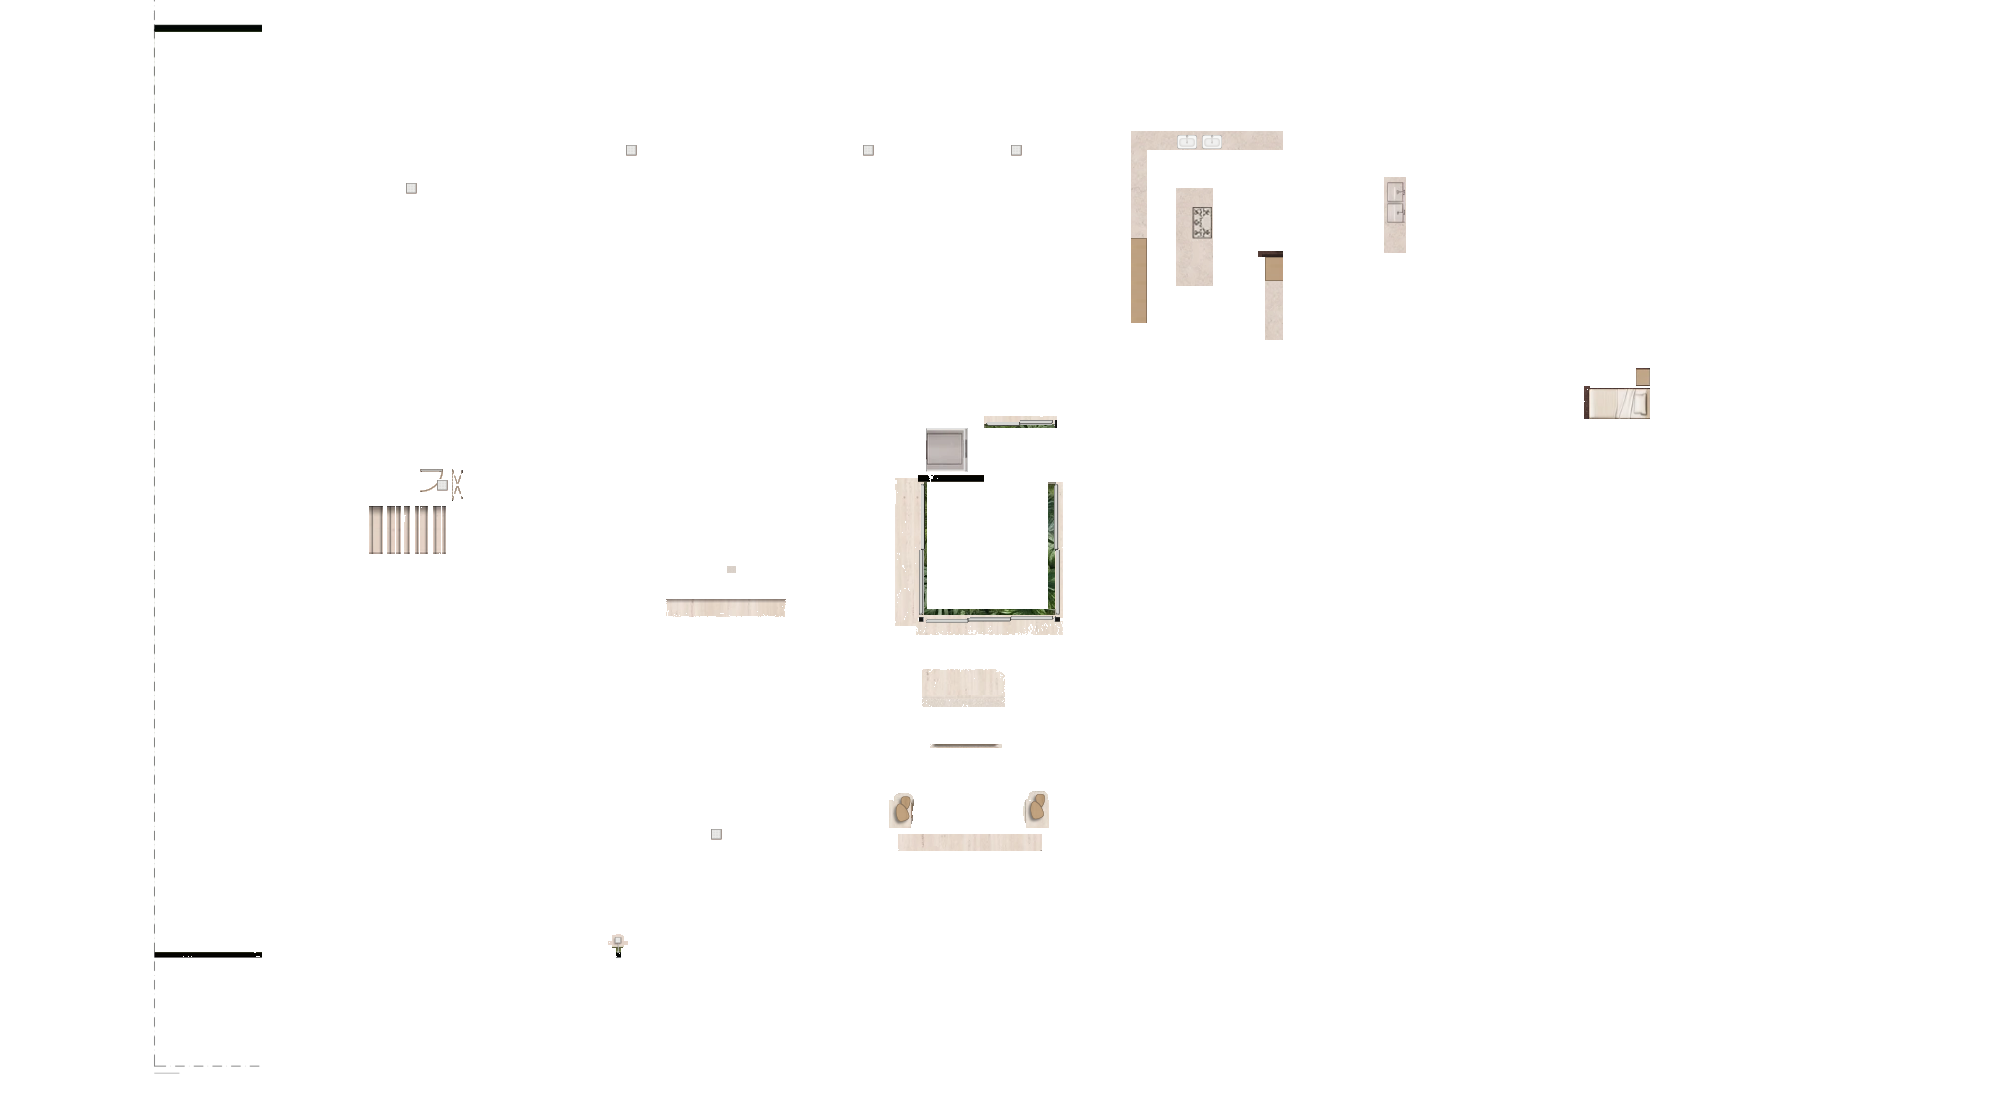
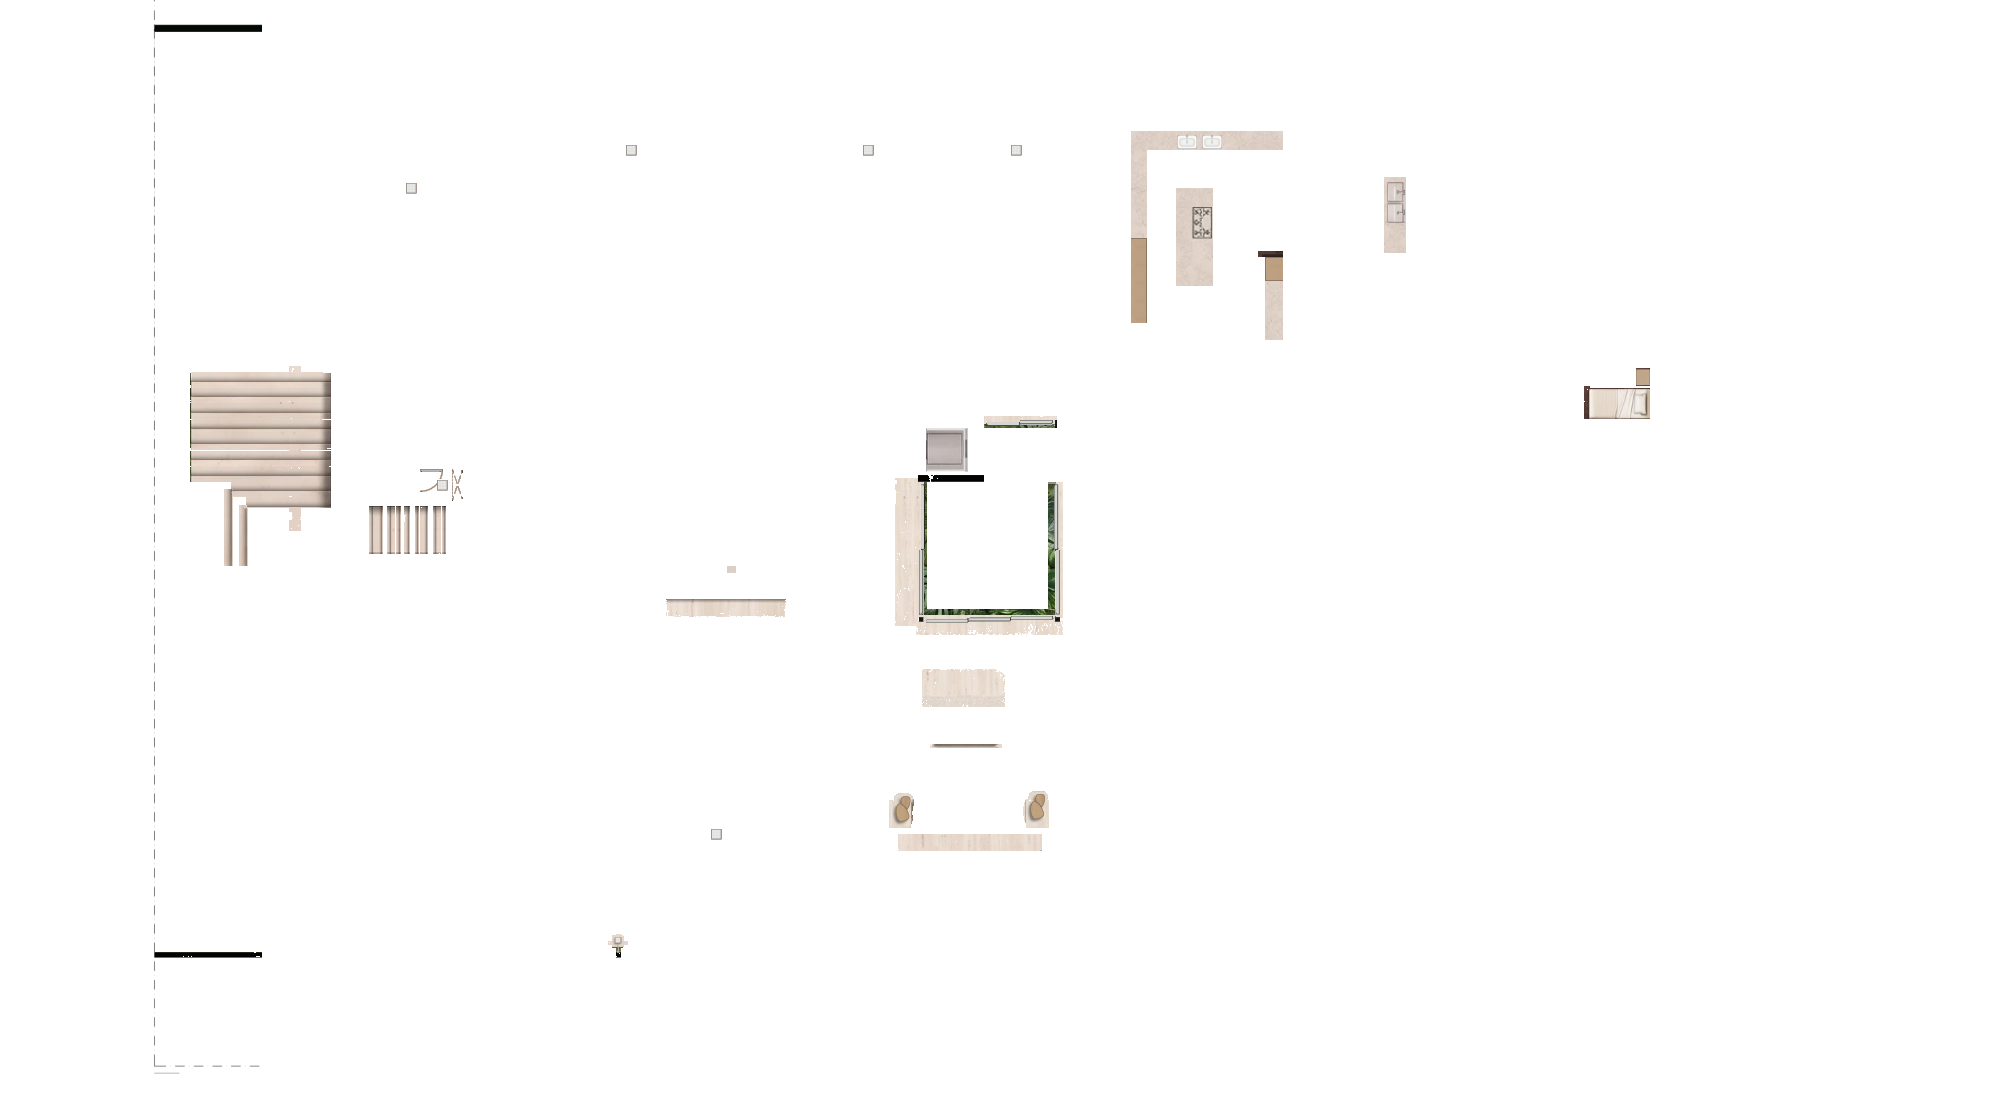
Casa C Térreo: degraus largos descendo para o pátio, sem a seta
A sombra das arestas passa para o lado de cima, com o perfil da mesma
escada no Subsolo aprovado, inclusive nas arestas em L.

Claude-Session: https://claude.ai/code/session_01Mm19WX3KoLN1nXMDF5Ay3F

Changed region(s): [[0.093, 0.3351, 0.186, 0.5179]]

diff --git a/projetos/POE642_CasaA/scripts/retoque_terreo_casac.py b/projetos/POE642_CasaA/scripts/retoque_terreo_casac.py
@@ -71,6 +71,11 @@ Os erros são corrigidos um a um, na ordem combinada com o usuário.
    vira as colunas limpas ao lado, que já têm a pedra, a borda, a grama e o muro). Entra o
    chuveiro do PDF (ARQ_LOUÇAS E METAIS): a ducha quadrada de ~19 cm, na placa aprovada da Casa A
    reduzida, o braço cromado até o muro e a canopla.
+15. Degraus largos (descem para o pátio, para cima na imagem): a seta da base sai (as colunas
+   viram as limpas ao lado) e a sombra de cada aresta, que o motor pôs do lado de baixo (lia como
+   subida), passa para o lado de cima, com o perfil da mesma escada no Subsolo da Casa C aprovado:
+   tira-se o perfil do motor (medido em cada aresta) e aplica-se o do Subsolo. As duas arestas em
+   L também: a sombra fica do lado de fora (à esquerda, o nível mais baixo).
 
 As coordenadas estão em px do render (2000 x 1116).
 
@@ -256,6 +261,19 @@ CHUVEIRO_EXT = {
     "canopla": (617.0, 951.4, 619.2, 952.5),
     "janela": (612, 934, 625, 955),
     "sombra": {"desloc": (-1.0, 1.0), "sigma": 0.8, "forca": 0.3},
+}
+# degraus largos: seta da base (com o deslocamento das colunas limpas), faixa das arestas retas,
+# colunas de medida (sem a seta e sem os L), arestas que viram em L e o fim dos L; perfis da mesma
+# escada no Subsolo da Casa C aprovado (fator sobre o piso liso, d = linha - aresta e coluna - aresta)
+DEGRAUS_LARGOS = {
+    "seta": ((289, 366, 301, 531), -12),
+    "x": (190, 331), "y": (366, 520),
+    "medida_x": (262, 318),
+    "L": [{"y": 490, "x": 231}, {"y": 506, "x": 246}],
+    "fim_L": 566,
+    "perfil": {"d": list(range(-10, 7)),
+               "f": [1.0, 1.0, 0.99, 0.99, 0.98, 0.96, 0.92, 0.87, 0.80, 0.71, 0.61, 0.99, 1.0, 1.0, 1.0, 1.0, 1.0]},
+    "perfil_L": {"d": list(range(-7, 2)), "f": [1.0, 0.99, 0.95, 0.91, 0.84, 0.76, 0.64, 0.61, 1.0]},
 }
 CROMO_ESCURO = (130, 134, 138)
 CROMO = (196, 199, 202)
@@ -761,6 +779,36 @@ def chuveiro_externo(out):
     return out
 
 
+def degraus_largos(out):
+    q = DEGRAUS_LARGOS
+    (sx0, sy0, sx1, sy1), d = q["seta"]
+    out[sy0:sy1, sx0:sx1] = out[sy0:sy1, sx0 + d:sx1 + d]
+    L = out.astype(np.float32).mean(axis=2)
+    K = np.ones(L.shape, np.float32)
+    mx0, mx1 = q["medida_x"]
+    y0, y1 = q["y"]
+    m = np.median(L[y0:y1, mx0:mx1], axis=1)
+    arestas = [y0 + i for i in range(1, len(m) - 1) if m[i] < 170 and m[i] <= m[i - 1] and m[i] <= m[i + 1]]
+    ds, fs = q["perfil"]["d"], np.array(q["perfil"]["f"], np.float32)
+    for c in arestas:
+        liso = np.median(L[c - 7:c - 3, mx0:mx1])
+        motor = np.clip([np.median(L[c + k, mx0:mx1]) / liso for k in ds], 0.3, 1.1)
+        xi = q["x"][0]
+        for dl in q["L"]:
+            if abs(c - dl["y"]) <= 2:
+                xi = dl["x"]
+        K[c + ds[0]:c + ds[-1] + 1, xi:q["x"][1]] *= (fs / motor)[:, None]
+    dv, fv = q["perfil_L"]["d"], np.array(q["perfil_L"]["f"], np.float32)
+    for dl in q["L"]:
+        xc, ya, yb = dl["x"], dl["y"] - 1, q["fim_L"]
+        liso = np.median(L[ya + 8:yb - 4, xc - 12:xc - 8])
+        motor = np.clip([np.median(L[ya + 8:yb - 4, xc + k]) / liso for k in dv], 0.3, 1.1)
+        K[ya:yb, xc + dv[0]:xc + dv[-1] + 1] *= (fv / motor)[None, :]
+    out[:] = np.clip(out.astype(np.float32) * K[..., None], 0, 255).astype(np.uint8)
+    print(f"    degraus largos: seta fora; {len(arestas)} arestas e {len(q['L'])} L com a sombra para o pátio")
+    return out
+
+
 def main():
     ap = argparse.ArgumentParser(description=__doc__, formatter_class=argparse.RawDescriptionHelpFormatter)
     ap.add_argument("render", type=Path)
@@ -800,12 +848,14 @@ def main():
     out = elevador(out)
     print("[14] chuveiro externo")
     out = chuveiro_externo(out)
+    print("[15] degraus largos")
+    out = degraus_largos(out)
 
     args.saida.mkdir(parents=True, exist_ok=True)
     cv2.imwrite(str(args.saida / f"{args.nome}.png"), out)
     alfa = np.where(np.abs(out.astype(int) - orig.astype(int)).max(axis=2) > 0, 255, 0).astype(np.uint8)
     cv2.imwrite(str(args.saida / f"{args.nome}_camada.png"), np.dstack([out, alfa]))
-    print(f"[15] {args.saida / (args.nome + '.png')}; {int((alfa > 0).sum())} px alterados")
+    print(f"[16] {args.saida / (args.nome + '.png')}; {int((alfa > 0).sum())} px alterados")
 
 
 if __name__ == "__main__":

diff --git a/projetos/POE642_CasaA/scripts/README.md b/projetos/POE642_CasaA/scripts/README.md
@@ -197,6 +197,7 @@ A imagem final do Térreo da Casa C é o render, retocado sem IA, erro por erro.
 - **Quarto externo:** a cama de solteiro vem de uma cama do quarto 2 do próprio render (virada, encurtada no cobertor e ajustada à largura do PDF) e o criado-mudo vem do da suíte, cada um com a sombra curta das camas do render.
 - **Tanques da área de serviço:** a bancada no mesmo quartzo da cozinha e os dois tanques copiados do Térreo aprovado da Casa B (mesma escala), nas posições da base alinhada.
 - **Estar conforme o PDF:** o aparador inventado vira travertino tecido (image quilting só com espelhos, para os veios seguirem verticais, no tom do piso em volta); a mesa de centro vira as duas do PDF; as mesas laterais orgânicas têm a forma do próprio PDF, rasterizado e levado ao render por `pdf_no_render` (recorte, largura da base, tela 16:9, redução e o afim da base), no tampo da mesa de centro, com contorno e sombra curta.
+- **Degraus largos:** a seta da base sai e a sombra das arestas passa para o lado do pátio: em cada aresta tira-se o perfil do motor (medido) e aplica-se o da mesma escada no Subsolo aprovado (fator multiplicativo), inclusive nas arestas em L.
 - **Chuveiro externo:** a cruz do motor sai (pedra, borda, grama e muro refeitos com os trechos limpos ao lado) e entra o chuveiro do PDF: ducha quadrada (placa da Casa A reduzida), braço cromado e canopla, com sombra curta.
 - **Elevador:** caixa branca e a cabine do Subsolo da Casa B (sem a soleira), girada para a porta ficar à esquerda e levada à cabine do PDF.
 - **Escada estreita:** 10 degraus como no PDF; as arestas do motor viram o piso do degrau ao lado e as novas recebem o perfil de sombra medido nas arestas do render (fator multiplicativo em 8x).

diff --git a/projetos/POE642_HANDOFF_SESSAO_LOCAL.md b/projetos/POE642_HANDOFF_SESSAO_LOCAL.md
@@ -306,6 +306,7 @@ python texturizar_base.py Terreo ../../POE642_CasaB/bases/POE642_CasaB_BASE_Terr
   12. **Escada estreita abaixo do box (pedido do usuário):** no PDF são 10 degraus (11 a 20, subindo para a direita); o motor fez 6. As arestas internas do motor saíram e entraram 9, repartidas por igual entre a primeira e a última aresta do render, com o perfil de sombra das arestas do próprio render. Feito.
   13. **Elevador:** a caixa tinha saído no travertino do hall. A caixa fica branca e a cabine, no tom da cabine do Subsolo da Casa B (pedido do usuário): é a própria cabine de lá, sem a soleira, girada para a porta ficar à esquerda e levada à cabine do PDF (quase a mesma escala). Feito.
   14. **Chuveiro externo (pedido do usuário):** no pisante junto ao muro de baixo, o motor fez uma cruz escura que ainda atravessava o muro. A cruz saiu e entrou o chuveiro do PDF: ducha quadrada de ~19 cm (a placa aprovada da Casa A, reduzida), braço cromado até o muro e canopla. Feito.
+  15. **Degraus largos (pedido do usuário):** a seta da base saiu e a sombra de cada aresta, que o motor pôs do lado de baixo (lia como subida), passou para o lado de cima, com o perfil da mesma escada no Subsolo aprovado; as duas arestas em L ficam com a sombra à esquerda (o nível mais baixo). Feito.
   - Todos os erros da lista estão feitos. Observação ainda não pedida: dentro do box do BH master 2 o piso saiu em dois tons (metade lisa, metade pontilhada).
 - **Depois do retoque:** pôr o Térreo em `entrega.pavimentos` e em `pdf.ordem` e gerar de novo a prancha e o PDF.
 
